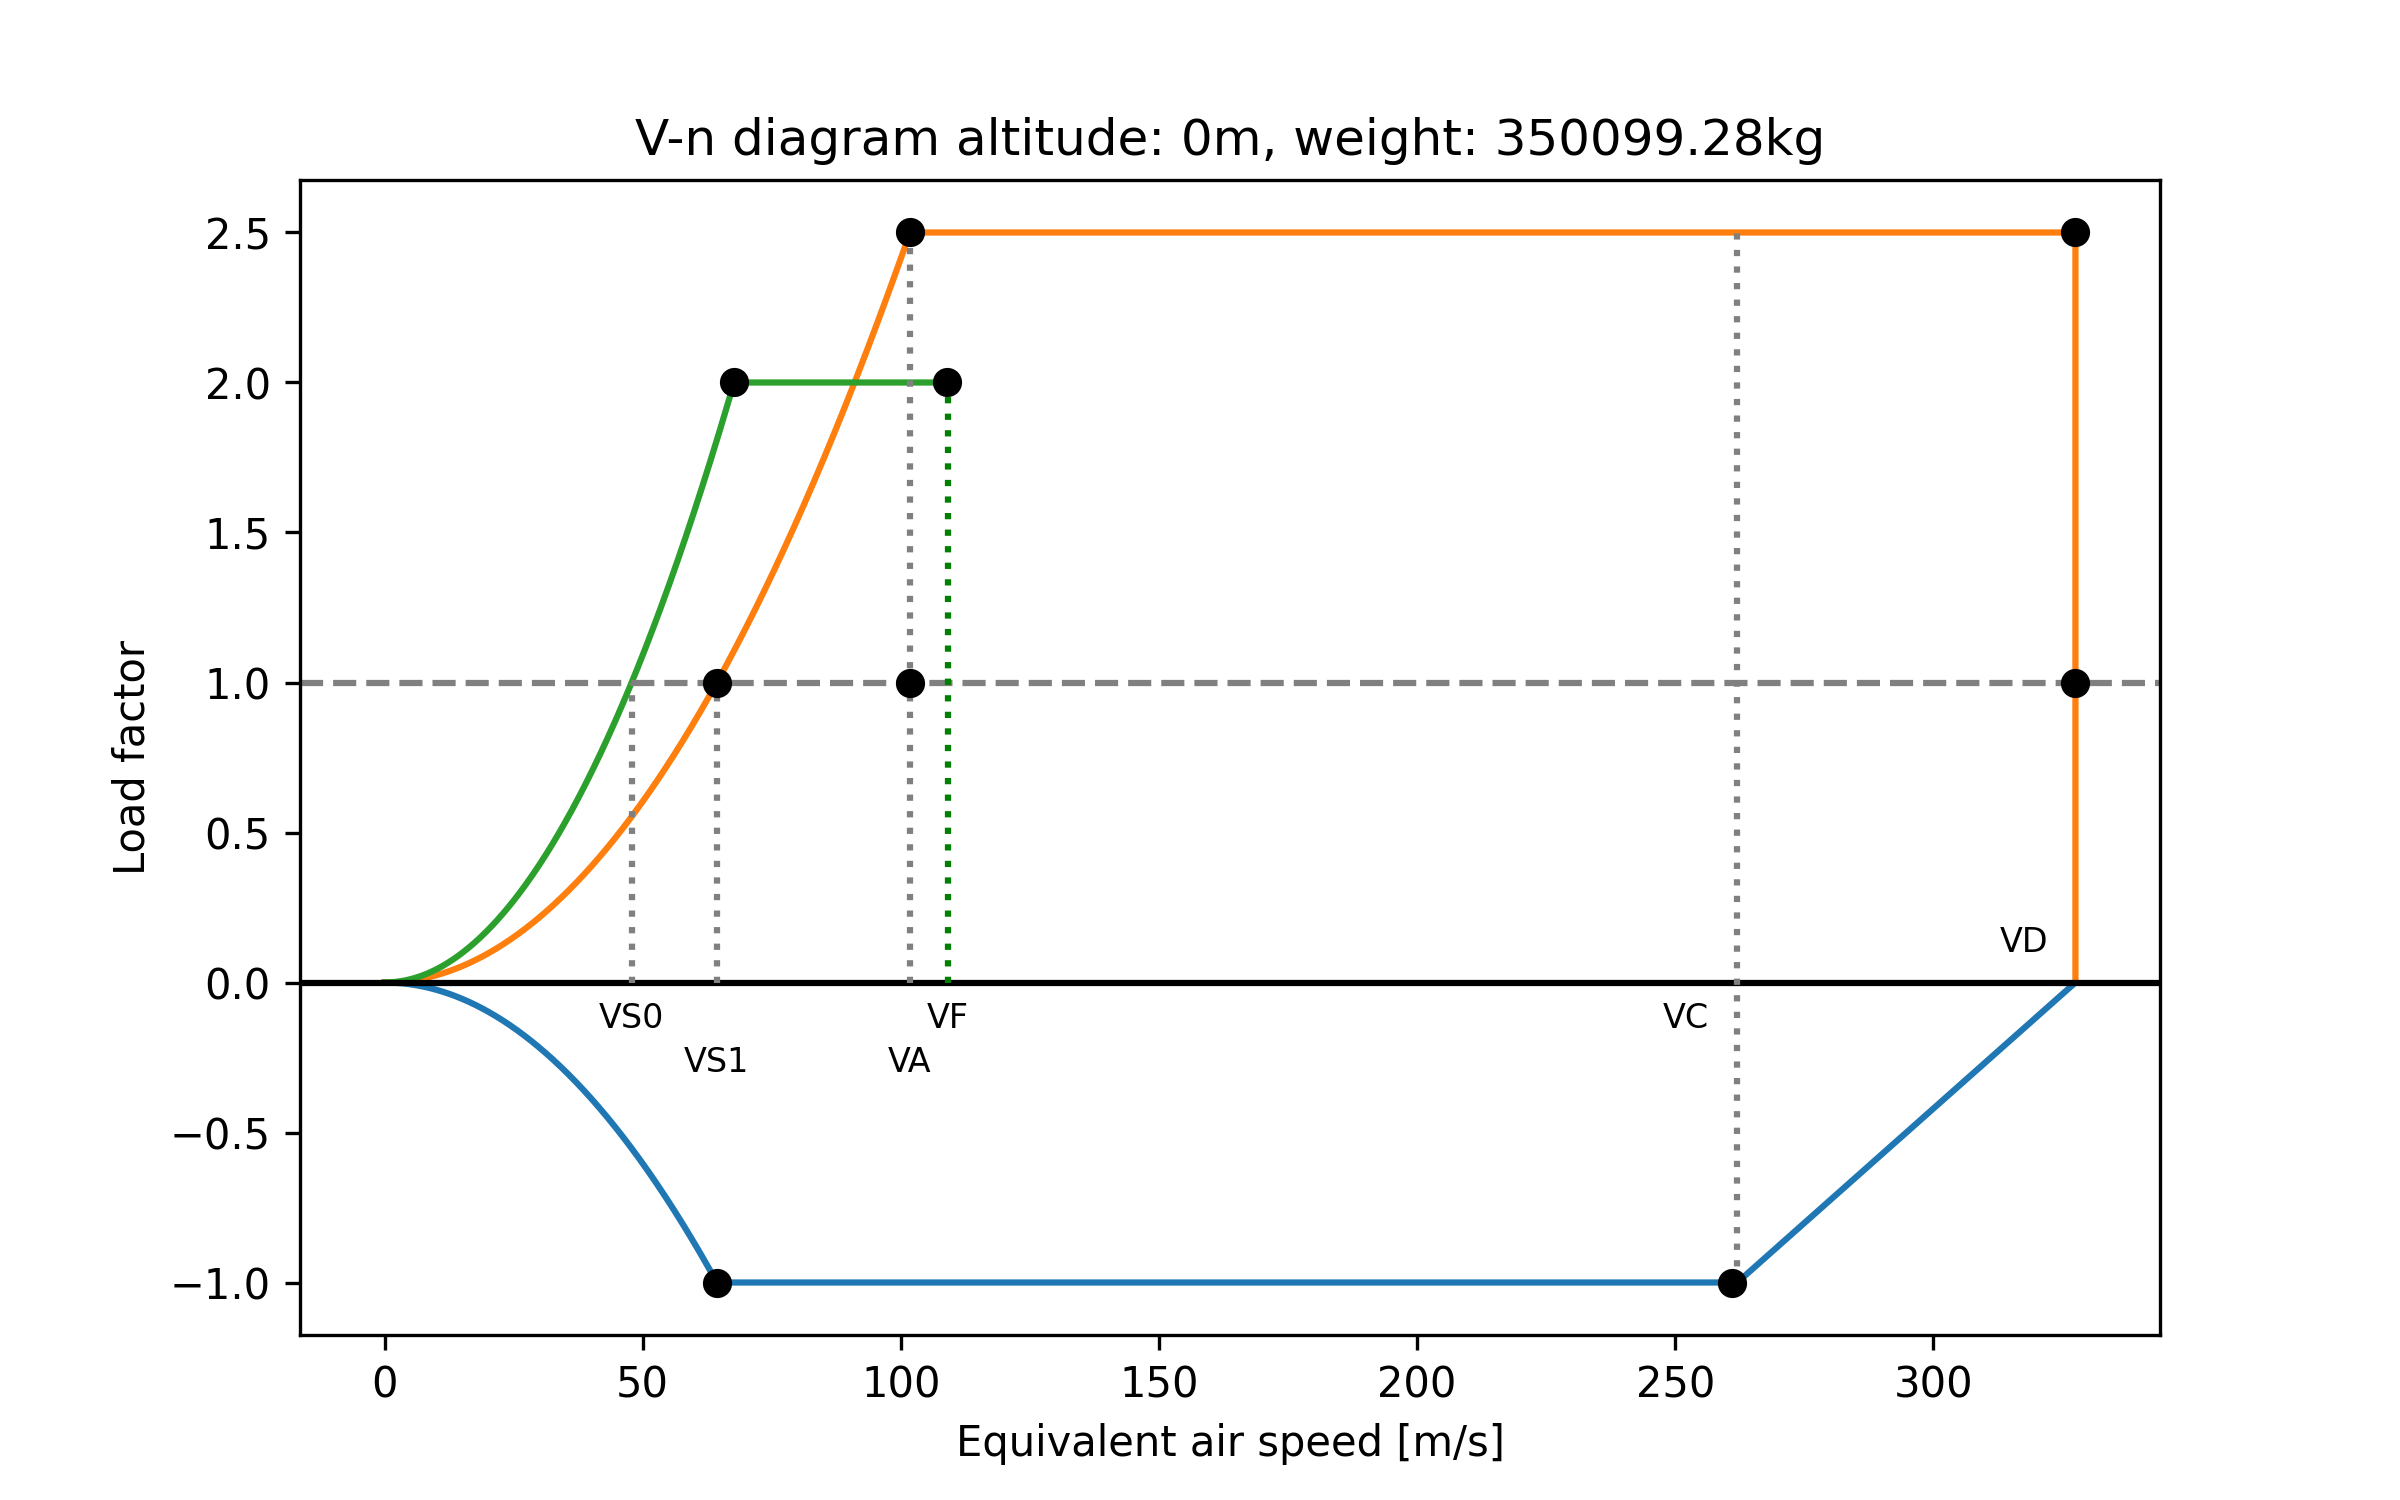
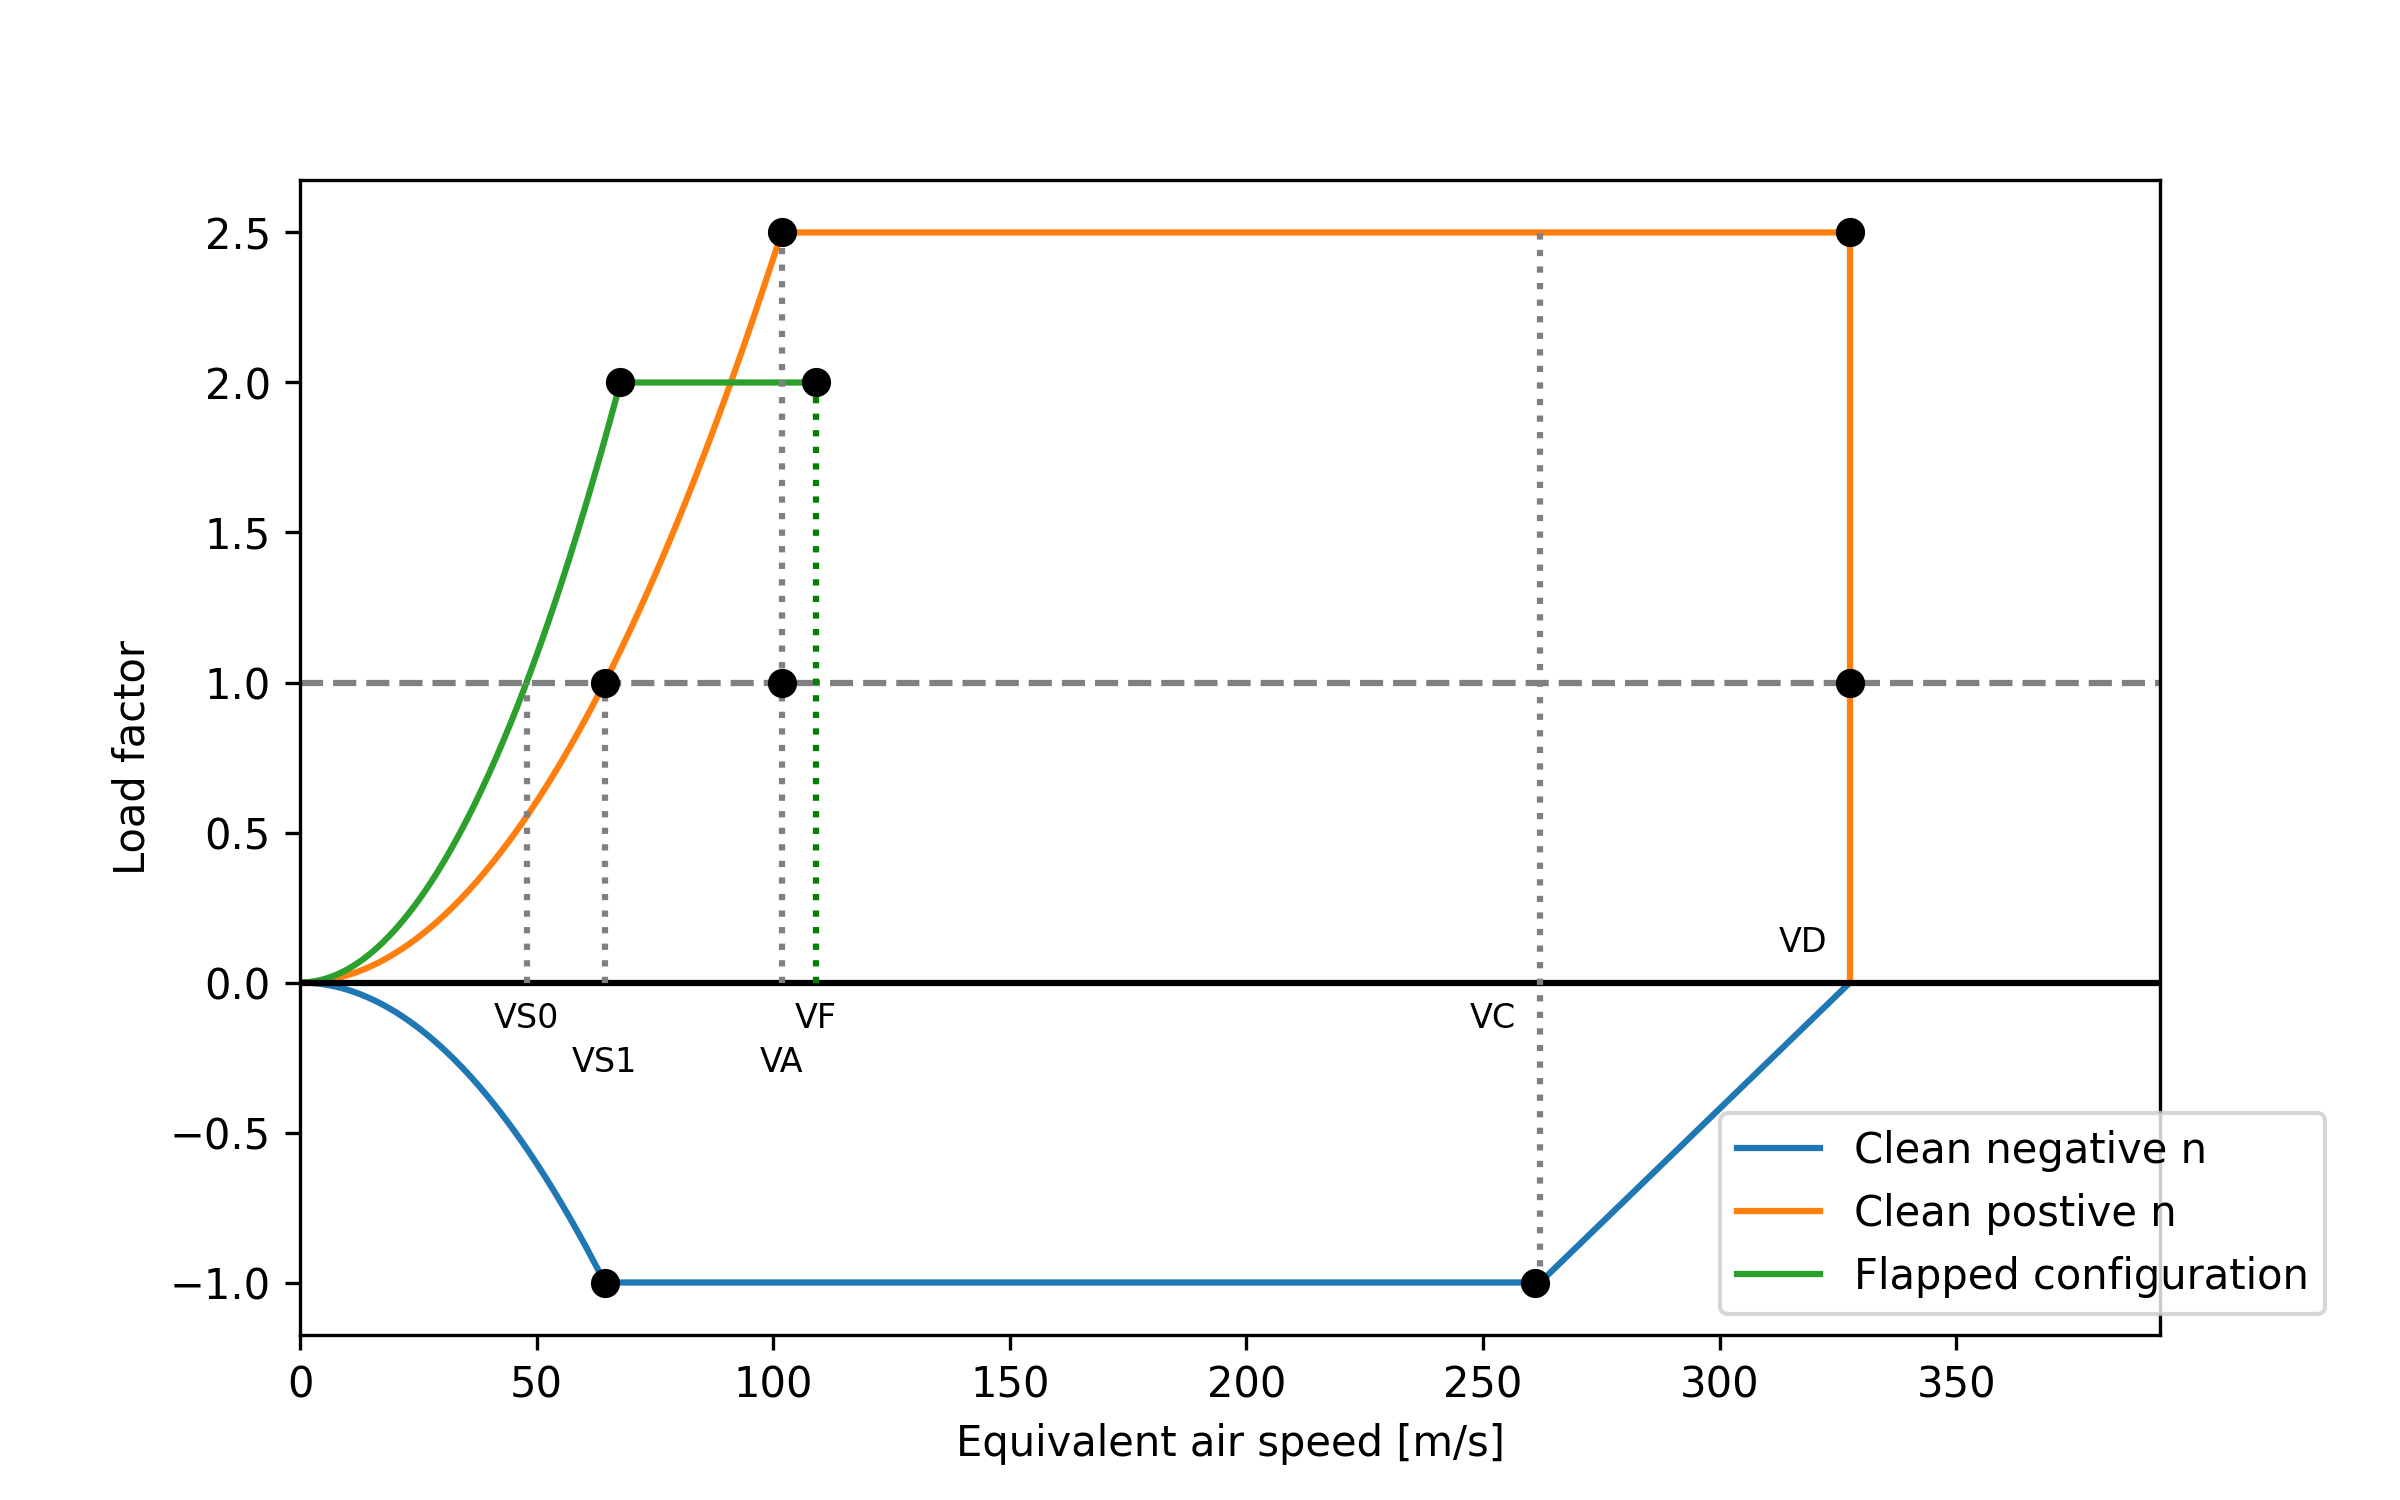
ghjghjghj

diff --git a/WP4-5/wp4_3.py b/WP4-5/wp4_3.py
@@ -136,9 +136,9 @@ class VelocityLoadFactorDiagram():
         n_lower_clean = self.n_lower_clean
         n_upper_flaps = self.n_upper_flaps
 
-        plt.plot(speeds, n_lower_clean)
-        plt.plot(speeds, n_upper_clean)
-        plt.plot(speeds[:len(n_upper_flaps)], n_upper_flaps)
+        plt.plot(speeds, n_lower_clean, color="blue")
+        plt.plot(speeds, n_upper_clean, color="blue")
+        plt.plot(speeds[:len(n_upper_flaps)], n_upper_flaps, color="blue")
         plt.grid()
         plt.xlabel("Equivalent air speed [m/s]")
         plt.ylabel("Load factor")
@@ -151,13 +151,13 @@ class VelocityLoadFactorDiagram():
         n_lower_clean = self.n_lower_clean
         n_upper_flaps = self.n_upper_flaps
 
-        plt.plot(speeds, n_lower_clean)
-        plt.plot(speeds, n_upper_clean)
-        plt.plot(speeds[:len(n_upper_flaps)], n_upper_flaps)
+        plt.plot(speeds, n_lower_clean, color="blue")
+        plt.plot(speeds, n_upper_clean, color="blue")
+        plt.plot(speeds[:len(n_upper_flaps)], n_upper_flaps, color="blue")
         plt.grid()
         plt.xlabel("Equivalent air speed [m/s]")
         plt.ylabel("Load factor")
-        plt.title(f"V-n diagram altitude: {self.altitude}m, weight: {self.weight_kg}kg")
+        # plt.title(f"V-n diagram altitude: {self.altitude}m, weight: {self.weight_kg}kg")
         plt.savefig(path, dpi=300)
 
     def n_max_formula(self):
@@ -298,7 +298,13 @@ class LoadCases():
 
         plt.xlabel("Equivalent air speed [m/s]")
         plt.ylabel("Load factor")
-        plt.title(f"V-n diagram altitude: {round(self.Vn.get_altitude(),2)}m, weight: {round(self.Vn.get_weight(),2)}kg")
+        # plt.title(f"V-n diagram altitude: {round(self.Vn.get_altitude(),2)}m, weight: {round(self.Vn.get_weight(),2)}kg")
+
+        # plt.subplots_adjust(right=0.7)
+        plt.xlim(0, 1.2 * self.speed_dive)
+
+        plt.legend(["Clean negative n", "Clean postive n ", "Flapped configuration"], loc="lower right", bbox_to_anchor=(1.1, 0))
+
         if save:
             os.makedirs("VNDiagram", exist_ok=True)
             plt.savefig(f"VNDiagram/W{round(self.Vn.get_weight())}_A{round(self.Vn.get_altitude())}.png", dpi=300)
@@ -337,7 +343,7 @@ if __name__ == "__main__":
             VND = VelocityLoadFactorDiagram(weight, 0.886*weights_kg[2], weights_kg[2], altitude, CL_max_clean, CL_max_flapped)
 
             LC = LoadCases(VND)
-            # LC.show(show=False, save=True)
+            LC.show(show=False, save=True)
             possible_cases = np.append(possible_cases, LC.get_load_cases())
             critical_cases = np.append(critical_cases,LC.get_all_critical_cases())
 
